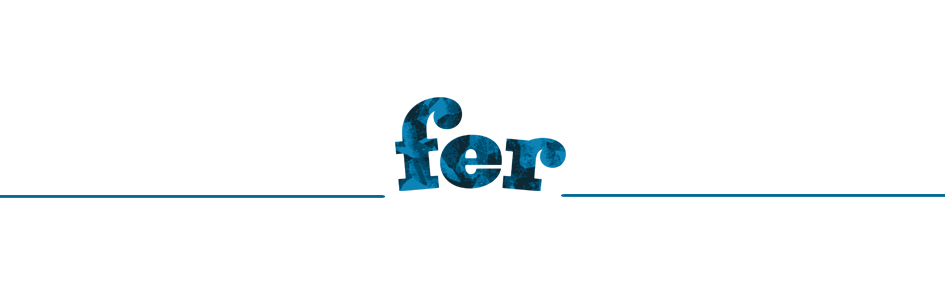
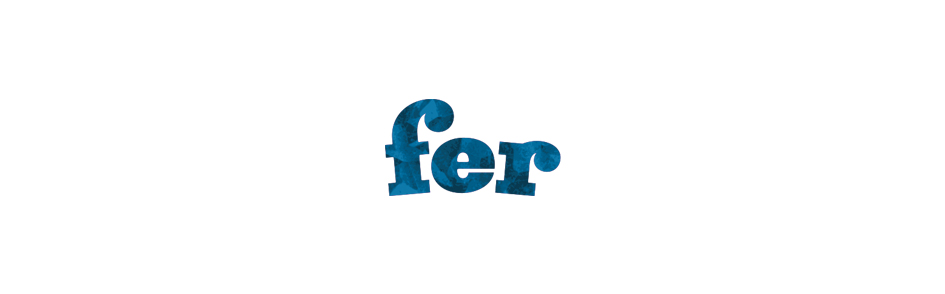
skoro skoro

Changed region(s): [[0.0, 0.3061, 1.0, 0.6735]]

diff --git a/src/www/css/design-2018.css b/src/www/css/design-2018.css
@@ -1147,7 +1147,6 @@ button.btn {
   padding-right: 5rem;
 }
 .page--case-study .case-study__about__logo--old {
-  width: 10.9375rem !important;
   height: auto;
   padding-top: 2.25rem;
   padding-bottom: 1.75rem;
@@ -1890,6 +1889,9 @@ button.btn {
   color: #35302d;
   border-top-color: #35302d;
 }
+.page--destro .case-study__about__logo--old {
+  width: 12rem !important;
+}
 .page--destro .case-study__parallax {
   background-color: #35302d;
 }
@@ -1938,6 +1940,9 @@ button.btn {
 .page--drevosrot .case-study__about__period {
   color: #241a05;
   border-top-color: #241a05;
+}
+.page--drevosrot .case-study__about__logo--old {
+  width: 18rem !important;
 }
 .page--drevosrot .case-study__parallax {
   background-color: #241a05;
@@ -2135,6 +2140,9 @@ button.btn {
   color: #b19869;
   border-top-color: #b19869;
 }
+.page--kkzpp .case-study__about__logo--old {
+  width: 10rem !important;
+}
 .page--kkzpp .case-study__parallax {
   background-color: #b19869;
 }
@@ -2233,6 +2241,9 @@ button.btn {
   color: #fffaf0;
   border-top-color: #fffaf0;
 }
+.page--pht .case-study__about__logo--old {
+  width: 8rem !important;
+}
 .page--pht .case-study__parallax {
   background-color: #fffaf0;
 }
@@ -2290,6 +2301,9 @@ button.btn {
 .page--poldi .case-study__about__period {
   color: #ffffff;
   border-top-color: #ffffff;
+}
+.page--poldi .case-study__about__logo--old {
+  width: 7rem !important;
 }
 .page--poldi .case-study__parallax {
   background-color: #ffffff;

diff --git a/src/www/less-design-2018/cases/drevosrot.less b/src/www/less-design-2018/cases/drevosrot.less
@@ -65,7 +65,12 @@
 			&__period {
 				.color-text-drevosrot;
 				border-top-color: @color-fe-drevosrot;
-			}			
+			}
+			&__logo {
+				&--old {
+					width: 18rem !important;
+				}
+			}				
 		}
 
 		&__parallax {

diff --git a/src/www/less-design-2018/cases/destro.less b/src/www/less-design-2018/cases/destro.less
@@ -65,7 +65,12 @@
 			&__period {
 				.color-text-destro;
 				border-top-color: @color-fe-destro;
-			}			
+			}
+			&__logo {
+				&--old {
+					width: 12rem !important;
+				}
+			}							
 		}
 
 		&__parallax {

diff --git a/src/www/less-design-2018/cases/kkzpp.less b/src/www/less-design-2018/cases/kkzpp.less
@@ -65,7 +65,12 @@
 			&__period {
 				.color-text-kkzpp;
 				border-top-color: @color-fe-kkzpp;
-			}			
+			}	
+			&__logo {
+				&--old {
+					width: 10rem !important;
+				}
+			}		
 		}
 
 		&__parallax {

diff --git a/src/www/less-design-2018/cases/poldi.less b/src/www/less-design-2018/cases/poldi.less
@@ -65,7 +65,12 @@
 			&__period {
 				.color-text-poldi;
 				border-top-color: @color-fe-poldi;
-			}			
+			}		
+			&__logo {
+				&--old {
+					width: 7rem !important;
+				}
+			}		
 		}
 
 		&__parallax {

diff --git a/src/www/less-design-2018/cases/pht.less b/src/www/less-design-2018/cases/pht.less
@@ -65,6 +65,11 @@
 			&__period {
 				.color-text-pht;
 				border-top-color: @color-fe-pht;
+			}	
+			&__logo {
+				&--old {
+					width: 8rem !important;
+				}
 			}			
 		}
 

diff --git a/src/www/less-design-2018/page/case_study.less b/src/www/less-design-2018/page/case_study.less
@@ -130,7 +130,6 @@
 			&__logo {
 				&--old {
 					.convertToRem(175px);
-					width: @v !important;
 					height: auto;
 					padding-top: 2.25rem;
 					padding-bottom: 1.75rem;
